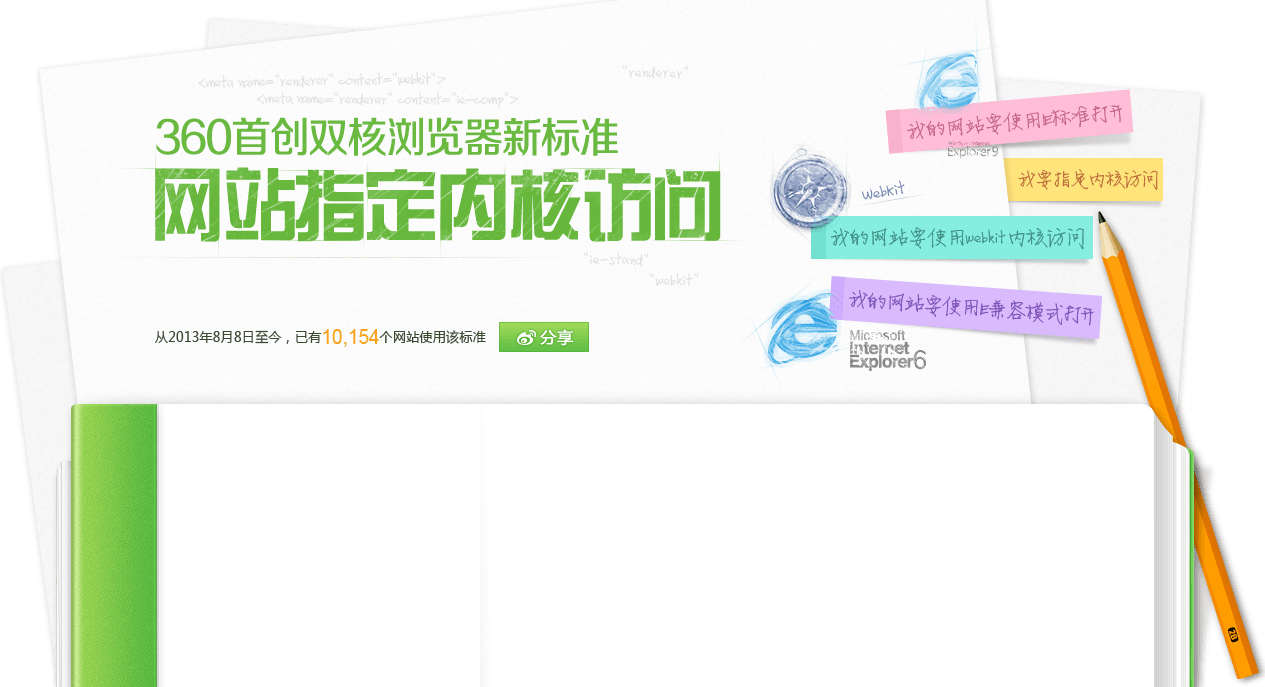
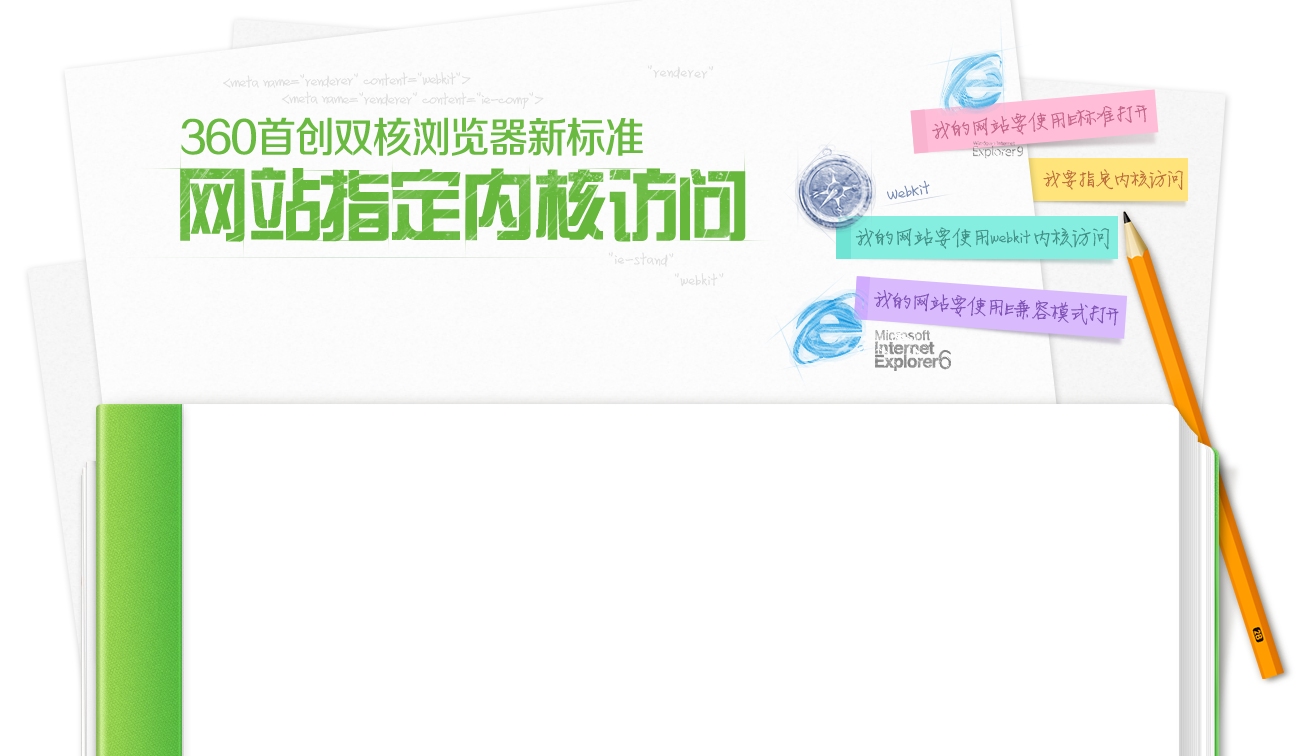
增加一个demo

Changed region(s): [[0.1233, 0.0611, 1.0, 1.0], [0.0308, 0.4585, 0.4625, 1.0]]

diff --git a/lesson 6 实际操作1 初级切图实战/初级切图实战/html/index.html b/lesson 6 实际操作1 初级切图实战/初级切图实战/html/index.html
@@ -1,130 +1,94 @@
 <!DOCTYPE html>
-<html>
+<html lang="en">
 <head>
-    <meta charset="UTF-8">
-    <meta name="renderer" content="webkit">
-    <title>欢迎使用360安全浏览器</title>
-    <link rel="stylesheet" href="../css/normalize.css">
+	<meta charset="UTF-8">
+	<title>360流器</title>
+	<link rel="stylesheet" href="../css/normalize.css">
 	<link rel="stylesheet" href="../css/index.css">
-
 </head>
 <body>
 	<div class="wrapper">
-		<div class="header">
-			<a id="share" href="javascript:;"></a>
-			<span>56,251</span>
-		</div>
-		<div class="wrapperr">	
-			<div class="content">
-				<div class="left">
-					<h2>如何使用新标准</h2>
-					<p class="bold">站长们好，您使用“360指定内核标准”后，可以免费申请进入右侧的列表。</p>
-					<p><span>1、复制以下代码到您的网站HTML代码的HEAD标签中...</span><a href="http://se.360.cn/v6/help/meta.html" target="_blank" title="">详情></a></p>
-					<p>页面需默认用极速核</p>
-					<input type="text" id="webkitInput" readonly="readonly" value='<meta name="renderer" content="webkit">' placeholder="">
-					<a href="javascript:;" id="webkit" data-clipboard-text='<meta name="renderer" content="webkit">'></a>
-					<p>页面需默认用ie兼容内核</p>
-					<input type="text" id="iecompInput" readonly="readonly" value='<meta name="renderer" content="ie-comp">' placeholder="">
-					<a href="javascript:;" id="iecomp" data-clipboard-text='<meta name="renderer" content="ie-comp">'></a>
-					<p>页面需默认用ie标准内核</p>
-					<input type="text" id="iestandInput" readonly="readonly" value='<meta name="renderer" content="ie-stand">' placeholder="">
-					<a href="javascript:;" id="iestand" data-clipboard-text='<meta name="renderer" content="ie-stand">'></a>
-					<p>2、发送邮件到360se@360.cn，邮件标题:meta，邮件内容包括您的联系方式、网站logo（16*16）、网站类型、主域名、加meta页面的URL，人工审核通过后，即可免费进入右侧友情链接。</p>
-				</div>
-				<div class="right">
-					<h2>首批使用</h2>
-					<ul>
-						<li><a href="http://yunpan.360.cn" target="_blank">360云盘</a></li>
-						<li><a href="http://image.so.com/" target="_blank">360图片搜索</a></li>
-						<li><a href=" http://jk.cloud.360.cn/" target="_blank" style="color:green">站长·云监控</a></li>
-						<li><a href="http://ce.cloud.360.cn/index" target="_blank">站长·奇云测</a></li>
-						<li><a href="http://xiaoshuo.duba.com/cate/4/0/1/1.html" target="_blank">金山毒霸</a></li>
-						<li><a href="http://www.bangzhufu.com" target="_blank">棒主妇</a></li>
-						<li><a href="http://topics.kankan.com/qbs/" target="_blank">迅雷看看·乔布斯</a></li>
-						<li><a href="http://www.shijiebang.com" target="_blank">世界邦</a></li>
-					</ul>
-					<div class="clear"></div>
-					<h2>近期新增</h2>
-					<ul>
-						<li><a href="http://www.kuaidi100.com/" target="_blank">快递100</a></li>
-						<li><a href="http://www.zhongyuanxiangsu.cn" target="_blank">爱淘宝</a></li>
-						<li><a href="http://nh.meikuyou.com" target="_blank">福喜年货</a></li>
-						<li><a href="http://login.home.news.cn" target="_blank">旋空间</a></li>
-						<li><a href="http://gzhuazhan.com/" target="_blank">广州酒店展览会</a></li>
-						<li><a href="http://www.lingyongqian.net" target="_blank">赚钱软件</a></li>
-						<li><a href="http://www.eelly.com/" target="_blank">衣联网</a></li>
-						<li><a href="http://mafuhai.com/" target="_blank">早教桌</a></li>
-						<li><a href="http://3g.exam8.com/BEC/1561.6799/" target="_blank">考试吧</a></li>
-						<li><a href="http://1584.jc.net.cn/market/list_133_468.html" target="_blank">建材在线</a></li>
-						<li><a href="http://www.meikuyou.com/yule/index.php/Question" target="_blank">哎哟，卧槽</a></li>
-						<li><a href="http://www.xsecure.cn/" target="_blank">X-Secure</a></li>
-						<li><a href="http://www.puliuke.com" target="_blank">瀑流客</a></li>
-					</ul>
-					<div class="clear" style="height:30px;"></div>
-					<h2>使用新标准的网站</h2>
-					<ul>
-						<li><a href="http://www.mogujie.com/" target="_blank">蘑菇街</a></li>
-						<li><a href="http://www.mogujia.com/" target="_blank">蘑菇家</a></li>
-						<li><a href="http://www.ibicn.com/" target="_blank">国联资源网</a></li>
-						<li><a href="http://nduoa.com/" target="_blank">N多网</a></li>
-						<li><a href="http://tilamisu.7192.com/" target="_blank">提拉米苏</a></li>
-						<li><a href="http://www.fadoushi.com/" target="_blank">法斗士</a></li>
-						<li><a href="http://www.faisco.com/" target="_blank">凡科网</a></li>
-						<li><a href="http://cv.qiaobutang.com/" target="_blank">乔布简历</a></li>
-						<li><a href="http://yiqibazi.com/" target="_blank">易奇八字</a></li>
-						<li><a href="http://space.xunkoo.com/158469" target="_blank">讯酷同城</a></li>
-						<li><a href="http://www.limian.com/club/share?page=250319" target="_blank">立免网</a></li>
-						<li><a href="http://400010086.com/" target="_blank">月亮商城</a></li>
-						<li><a href="http://ele.me" target="_blank">饿了么</a></li>
-						<li><a href="http://www.lingdux.com" target="_blank">零度x's blog</a></li>
-						<li><a href="http://www.gamersky.com" target="_blank">游民星空</a></li>
-						<li><a href="http://www.cqlphz.com" target="_blank">红旗中学</a></li>
-						<li><a href="http://www.upanx.com" target="_blank">优盘工作室</a></li>
-						<li><a href="http://www.117go.com" target="_blank">在路上</a></li>
-						<li><a href="http://www.bendibao.com" target="_blank">本地宝</a></li>
-						<li><a href="http://www.tushu.com" target="_blank">涂书网</a></li>
-						<li><a href="http://www.huaban.com" target="_blank">花瓣网</a></li>
-						<li><a href="http://oa.meikuyou.com/Test/Q/first-blood.html" target="_blank">谁用婚恋网</a></li>
-						<li><a href="http://www.1000tuan.com" target="_blank">千团网</a></li>
-						<li><a href="http://www.kugou.com" target="_blank">酷狗音乐</a></li>
-						<li><a href="http://yexian.gov.cn" target="_blank">叶县</a></li>
-						<li><a href="http://oa.meikuyou.com/Test/Q/triple-kill.html" target="_blank">谁是土豪</a></li>
-						<li><a href="http://www.ncflcp.com" target="_blank">南充彩票</a></li>
-						<li><a href="http://www.xinfengwenxue.com" target="_blank">信风文学网</a></li>
-						<li><a href="http://maolihui.com" target="_blank">猫理会</a></li>
-						<li><a href="http://www.svwicream.com" target="_blank">慕斯然</a></li>
-						<li><a href="http://www.tzzpw.com.cn" target="_blank">泰州招聘网</a></li>
-						<li><a href="http://www.dreamore.com" target="_blank">追梦网</a></li>
-						<li><a href="http://www.6sq.net" target="_blank">六西格玛网</a></li>
-						<li><a href="http://www.gaosiedu.com" target="_blank">高思教育</a></li>
-						<li><a href="http://wenku8.cn" target="_blank">轻小说文库</a></li>
-						<li><a href="http://www.sozhi.com.cn" target="_blank">搜职</a></li>
-						<li><a href="http://rishiqing.com" target="_blank">日事清</a></li>
-						<li><a href="http://www.szzppx.com" target="_blank">中鹏培训</a></li>
-						<li><a href="http://www.aimeidaren.com" target="_blank">爱美达人</a></li>
-						<li><a href="http://www.jitashe.net" target="_blank">吉他社</a></li>
-						<li><a href="http://jqjuquan.com" target="_blank">聚泉铝业</a></li>
-						<li><a href="http://oa.meikuyou.com/Test/Q/double-kill.html" target="_blank">极品测试</a></li>
-						<li><a href="http://www.aipai.com" target="_blank">爱拍原创</a></li>
-						<li><a href="http://jsoooo.com" target="_blank">著数网</a></li>
-						<li><a href="http://ankto.cn" target="_blank">赞讯电子</a></li>
-						<li><a href="http://www.aimeidaren.com" target="_blank">爱美达人</a></li>
-						<li><a href="http://www.yangxia.org" target="_blank">陽夏科技</a></li>
-						<li><a href="http://kushe.net" target="_blank">酷摄网</a></li>
-						<li><a href="http://zhijia.com" target="_blank">置家网</a></li>
-					</ul>
-					<div class="clear"></div>
-				</div>
-				<div class="clear"></div>
-			</div>
+		<header class="header">
+			<h1 class="h1">
+				360首创双核浏览器新标准网站指定内核访问
+			</h1>
+			<p class="tips">
+				从2013年8月8日至今，已有<span>10,154</span>个网站使用该标准
+				<a href="javascript:;" class="share">分享</a>
+			</p>
+
+		</header>
+		<main class="main">
+			<aside class="aside">
+				<h2>
+					免费进入左侧列表带流量
+				</h2>
+				<p>
+					站长们好，您使用“360指定内核标准”后，可以免费申请进入左侧的列表，给您的网站增加流量。
+				</p>
+				<p>
+					1、复制以下代码到您的网站HTML代码的HEAD标签中...</p>
+				<p>
+					页面需默认用极速核
+				</p>
+				<input value='<meta name="renderer" content="webkit">' readonly type="text">
+				<a href="javascript:;" class="copy"></a>
+
+				<p>
+					页面需默认用极速核
+				</p>
+				<input value='<meta name="renderer" content="webkit">' readonly type="text">
+				<a href="javascript:;" class="copy"></a>
+
+				<p>
+					页面需默认用极速核
+				</p>
+				<input value='<meta name="renderer" content="webkit">' readonly type="text">
+				<a href="javascript:;" class="copy"></a>
+				<p>
+					2、提交您的联系方式、网站logo、主域名、加meta页面的URL到360se@360.cn，人工审核通过后，即可免费进入左侧列表，给您的网站带流量。
+				</p>
+				
+			</aside>
+			<section class="section">
+				<h2>
+				首批使用360新标准的网站</h2>
+				<ul class="list">
+					<li>
+						百度影响
+					</li>
+					<li>
+						百度影响
+					</li>
+					<li>
+						百度影响
+					</li>
+					<li>
+						百度影响
+					</li>
+					<li>
+						百度影响
+					</li>
+					<li>
+						百度影响
+					</li>
+					<li>
+						百度影响
+					</li>
+				</ul>
+			</section>
+		</main>
+		<div class="footer-image">
 			
 		</div>
-		<div class="footer">
-				<div>
-					<p>Copyright©2005-2013 360.CN All Rights Reserved  360安全中心</p>
-					<p>隐私权政策 京ICP证080047号</p>
-				</div>
-			</div>
+		<footer class="footer">
+			<p>
+				Copyright©2005-2013 360.CN All Rights Reserved
+			</p>
+			<p>
+				360安全中心 隐私权政策 京
+			</p>
+		</footer>
 	</div>
 </body>
 </html>

diff --git a/lesson 6 实际操作1 初级切图实战/初级切图实战/css/index.css b/lesson 6 实际操作1 初级切图实战/初级切图实战/css/index.css
@@ -5,126 +5,69 @@ ul{
 	list-style-type:none;
 }
 body{
-    background: url(../img/background.png);
-    font-family: "微软雅黑";
+	background:url(../img/background.jpg);
 }
 .wrapper{
-    width:1265px;
+	width:1296px;
 	margin:0 auto;
-	position:relative;
-}
-.wrapperr{
-	margin-top: 120px;
-	background: url(../img/interval.png);
 }
 .header{
-	height:687px;
 	background: url(../img/header.png);
+	height:687px;
 }
-.content{
-	min-height: 200px;
-	width:1265px;
-	margin-top: -120px;
+.main{
+	background: url(../img/interval.png);
+	height:400px;
+	margin-top:-240px;
+}
+.footer-image{
+	background:url(../img/footer.png);
+	height:133px;
 }
 .footer{
-	width:1265px;
-	overflow: hidden;
-	height:178px;
-	background: url(../img/footer.png) no-repeat;
-}
-.left{
-	width:245px;
-	float:left;
-	margin:-250px 90px 0 190px;
-}
-.right{
-	width:600px;
-	float:left;
-	margin-top:-250px;
-}
-.clear{
-	clear: both;
-	height: 0;
-	font-size: 0;
-	overflow: hidden;
-}
-h2{
-	color:#3ba617;
-	line-height: 32px;
-	font-size: 18px;
-	border-bottom: #7ac648 2px solid;
-}
-.footer p{
-	font-family: 'Tahoma';
 	text-align: center;
+	margin:50px 0 70px 0;
+	color:black;
 	font-size: 12px;
 	opacity: 0.5;
+	line-height: 20px;
 }
-.right ul li{
-	text-align: center;
-	width:120px;
-	float:left;
+.h1{
+	opacity: 0;
 }
-.left .bold{
-	font-weight: bold;
-	font-size: 12px;
-	color:#333;
-}
-.left p{
-	color:#777;
-	font-size: 12px;
-	margin:20px 0 10px 0;
-}
-.left p a{
-	text-decoration: none;
-	color:#367cfb;
-}
-.left input{
-	font-size: 12px;
-	width:240px;
-	height:50px;
-	font-family: Arial;
-	text-align: center;
-	color:#777;
-	line-height: 50px;
-	*margin-left:-190px;
-}
-.left>a{
-	background: url(../img/copy.png);
-	width:90px;
-	height:30px;
-	display: block;
-	margin-top:10px;
-}
-.footer div{
-	margin-top:100px;
-}
-.right ul{
-	margin:22px 0 110px -30px;
-}
-.right ul li a{
-	text-decoration: none;
+.tips{
+	color:#3b4c32;
 	font-size: 14px;
-	line-height: 29px;
-	color:#333;
+	margin:277px 0 0 178px;
 }
-.right ul li a:hover{
-    color:red;
-}
-#share{
-	display: block;
-	width:90px;
-	height:30px;
-	position: absolute;
-	top:322px;
-	left:500px;
-}
-.header span{
+.tips span{
 	color:#ffa11a;
 	font-size: 20px;
-	font-family: "Arial";
-	position: absolute;
-	top: 325px;
-	left: 319px;
-	background: white;
+}
+.share{
+    vertical-align: middle;
+	display: inline-block;
+	width:90px;
+	height:30px;
+	text-indent: -9999em;
+	background: url(../img/share.png);
+}
+.copy{
+	vertical-align: middle;
+	display: block;
+	width:90px;
+	height:30px;
+	text-indent: -9999em;
+	background: url(../img/copy.png);
+}
+.aside{
+	float:left;
+	width:335px;
+	margin-left:200px;
+}
+.section{
+	float:left;
+}
+.list li{
+	float:left;
 }

diff --git a/lesson 9 css3动画实战/README.md b/lesson 9 css3动画实战/README.md
@@ -3,3 +3,4 @@
 
 # pc端动画
   -转起来
+  -
